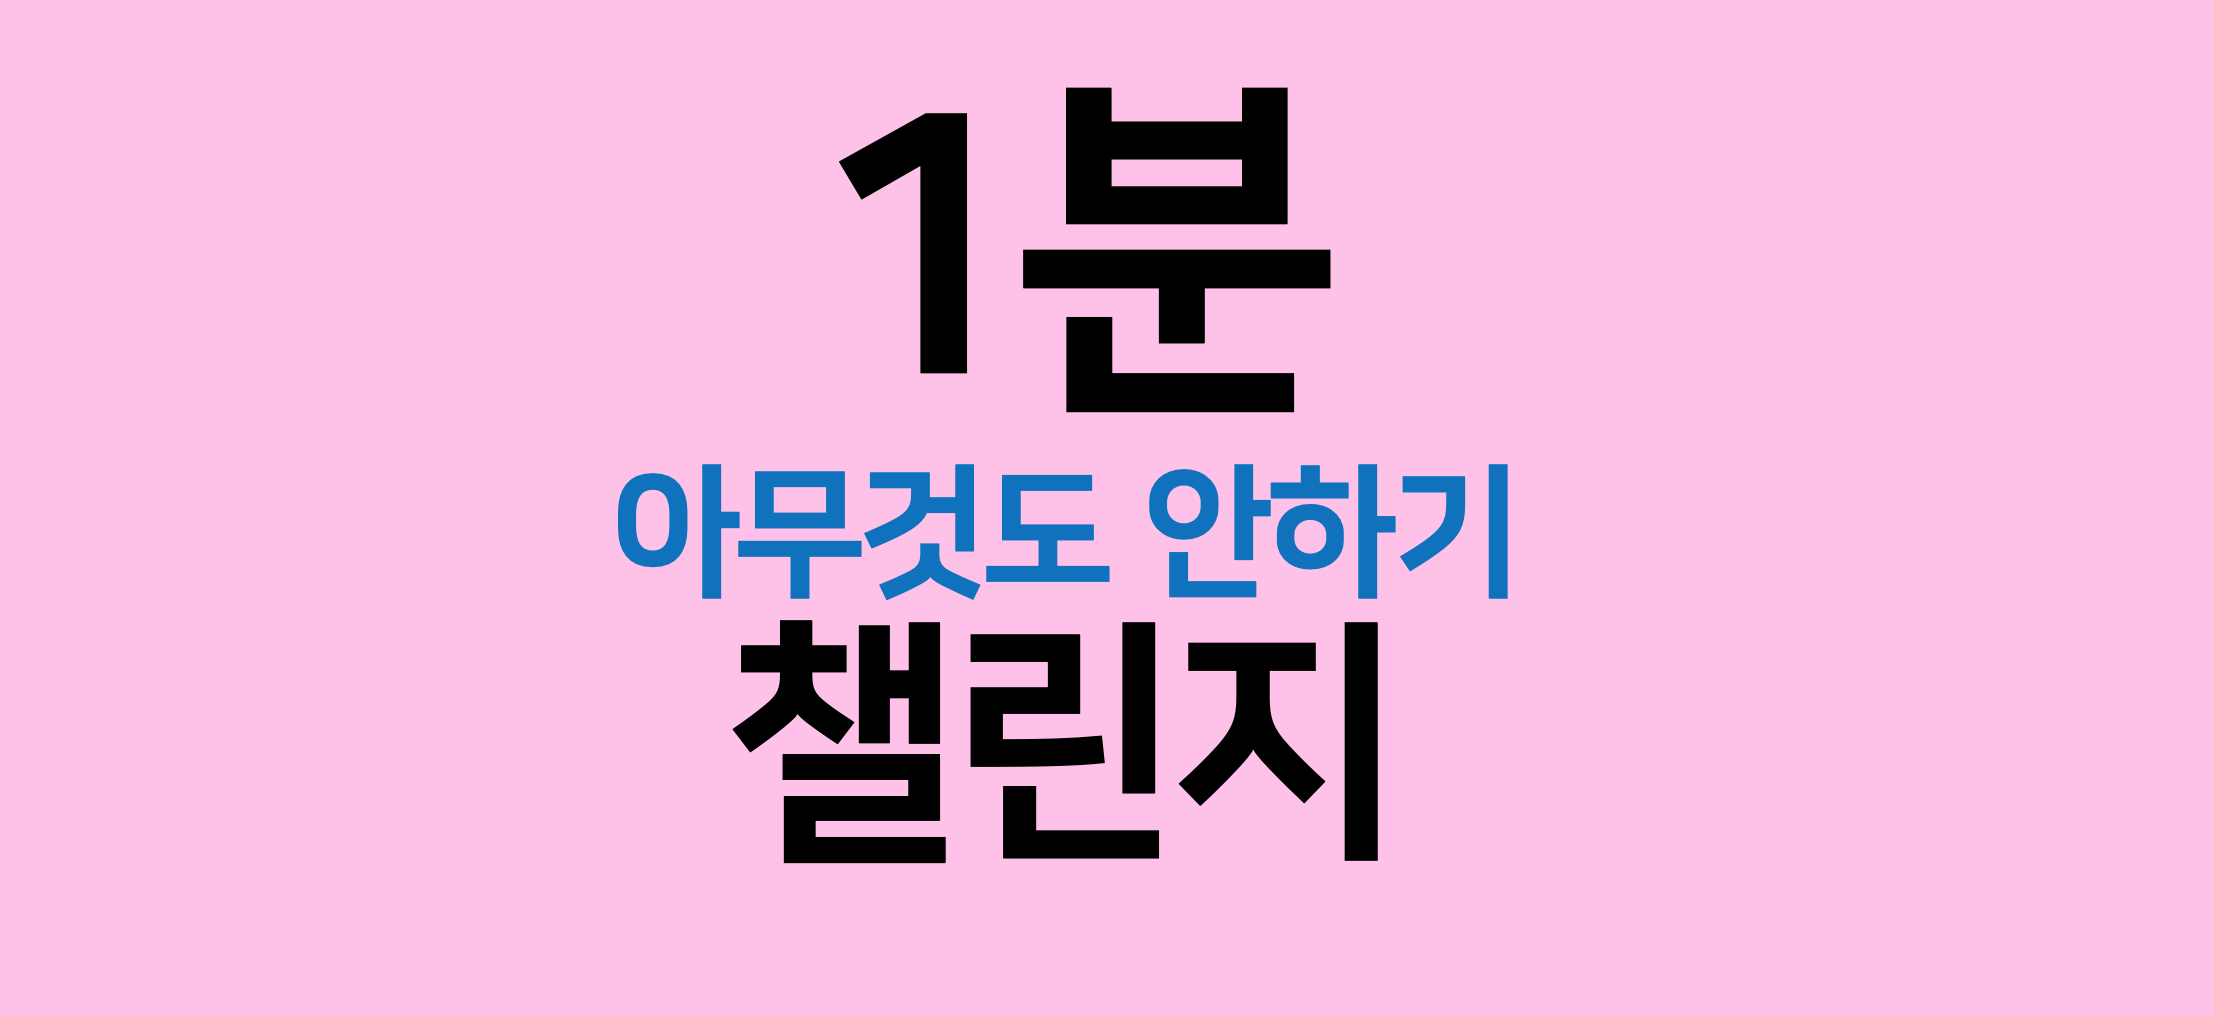
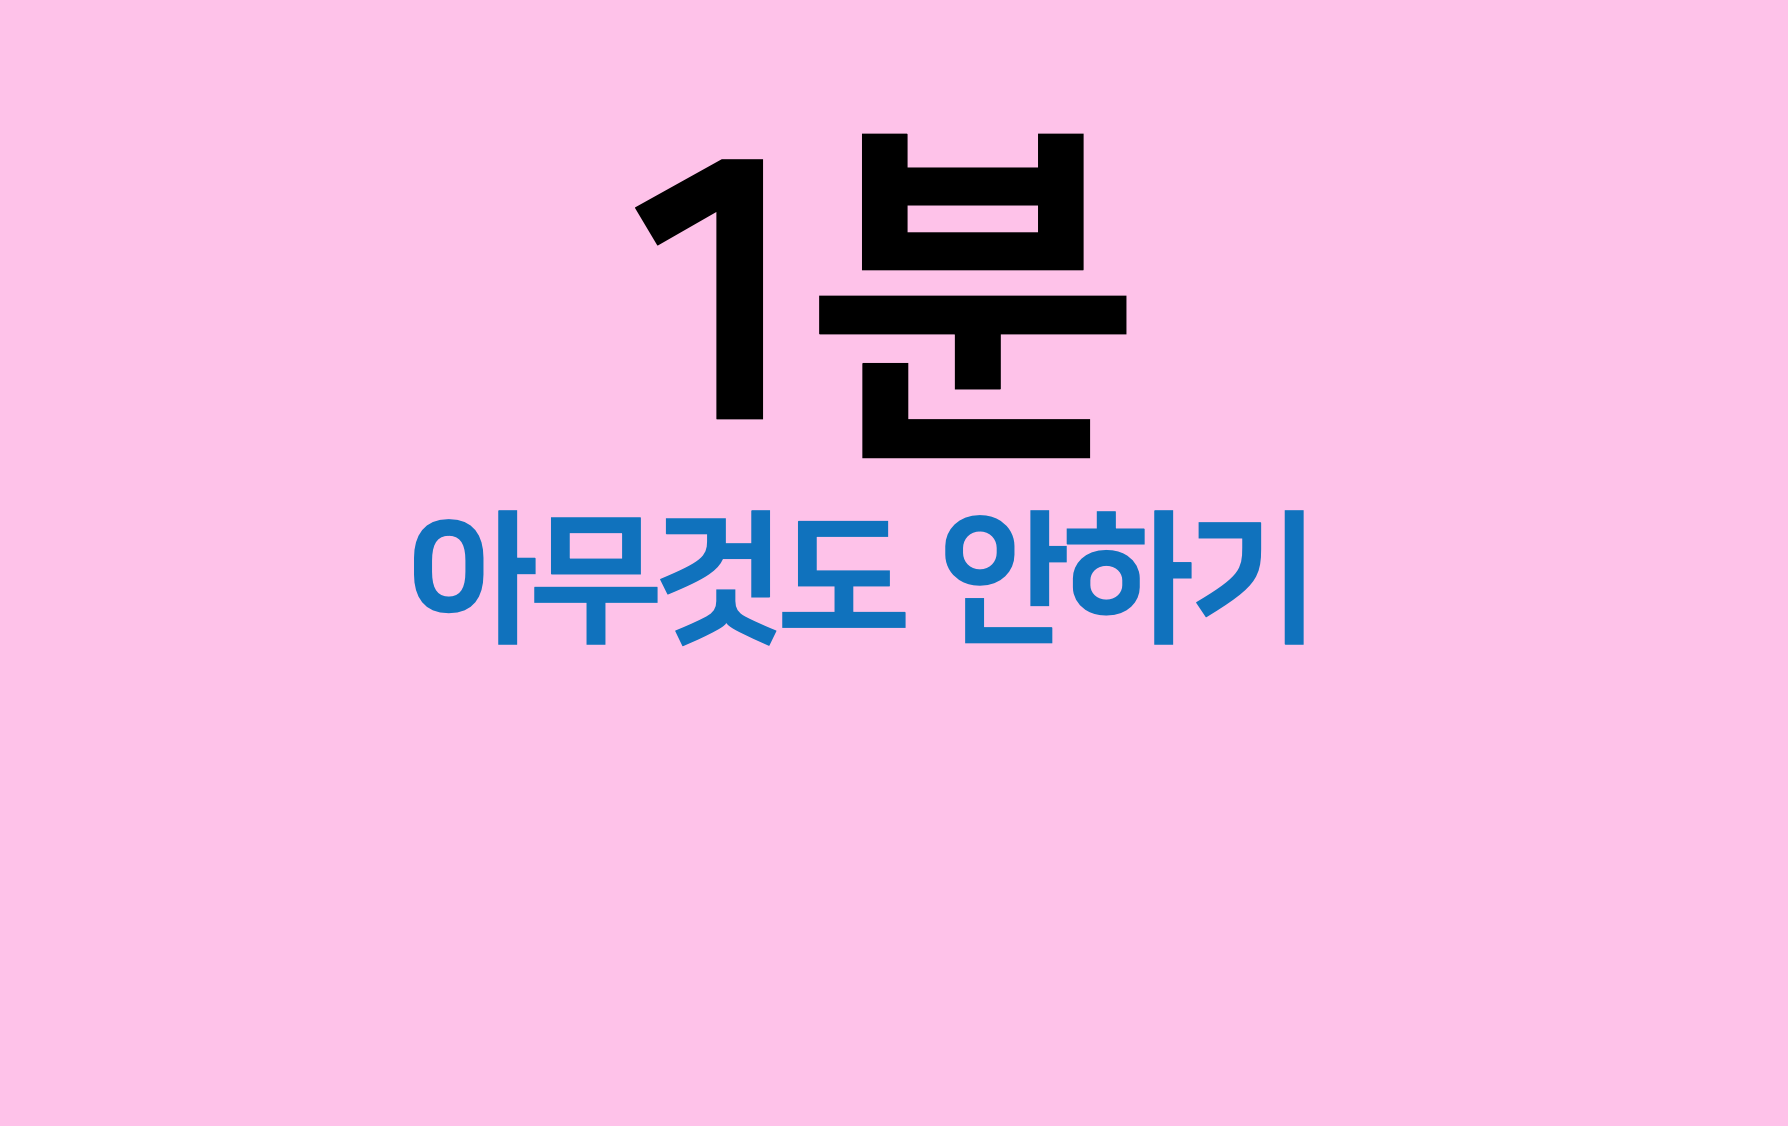
이제 안한다

Changed region(s): [[0.2153, 0.4577, 0.7383, 0.8543], [0.3384, 0.061, 0.646, 0.4272]]

diff --git a/index.html b/index.html
@@ -28,7 +28,7 @@
         
         <div id="end-message" class="hidden">
             <!-- End message and links here -->
-            <h1>1분 아무것도 안하기 챌린지 성공!</h1>
+            <h1>1분 아무것도 안하기<br> 챌린지 성공!</h1>
             <h4>보기보단 쉽지 않았죠? <br> 다른 분들은 성공할 수 있을까요?</h4>
 
             <button id="retry-button">다시하기</button>
